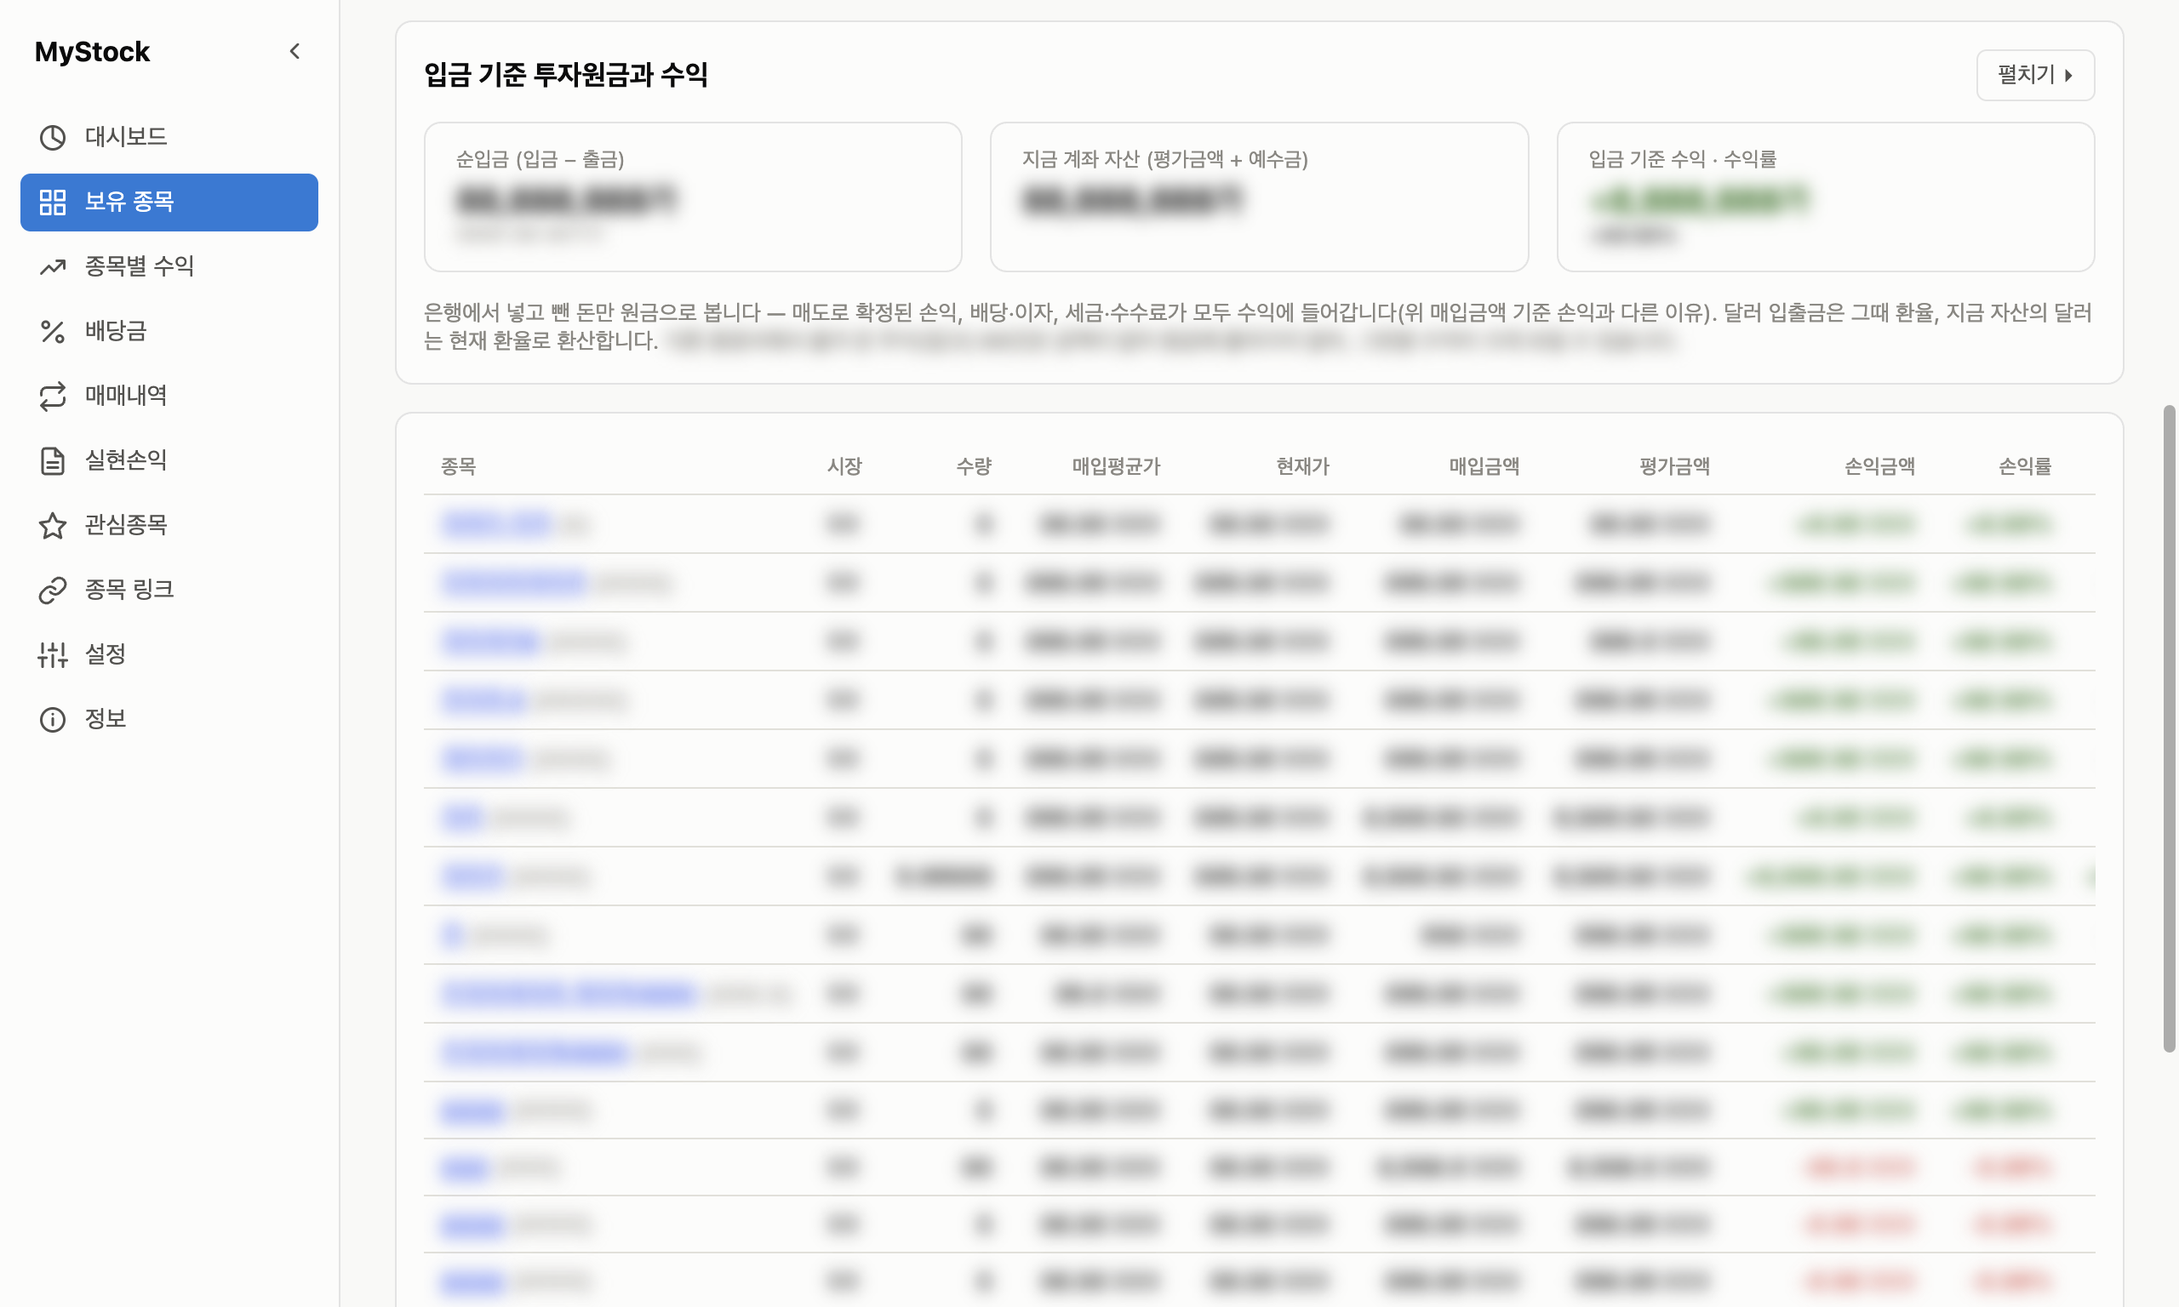
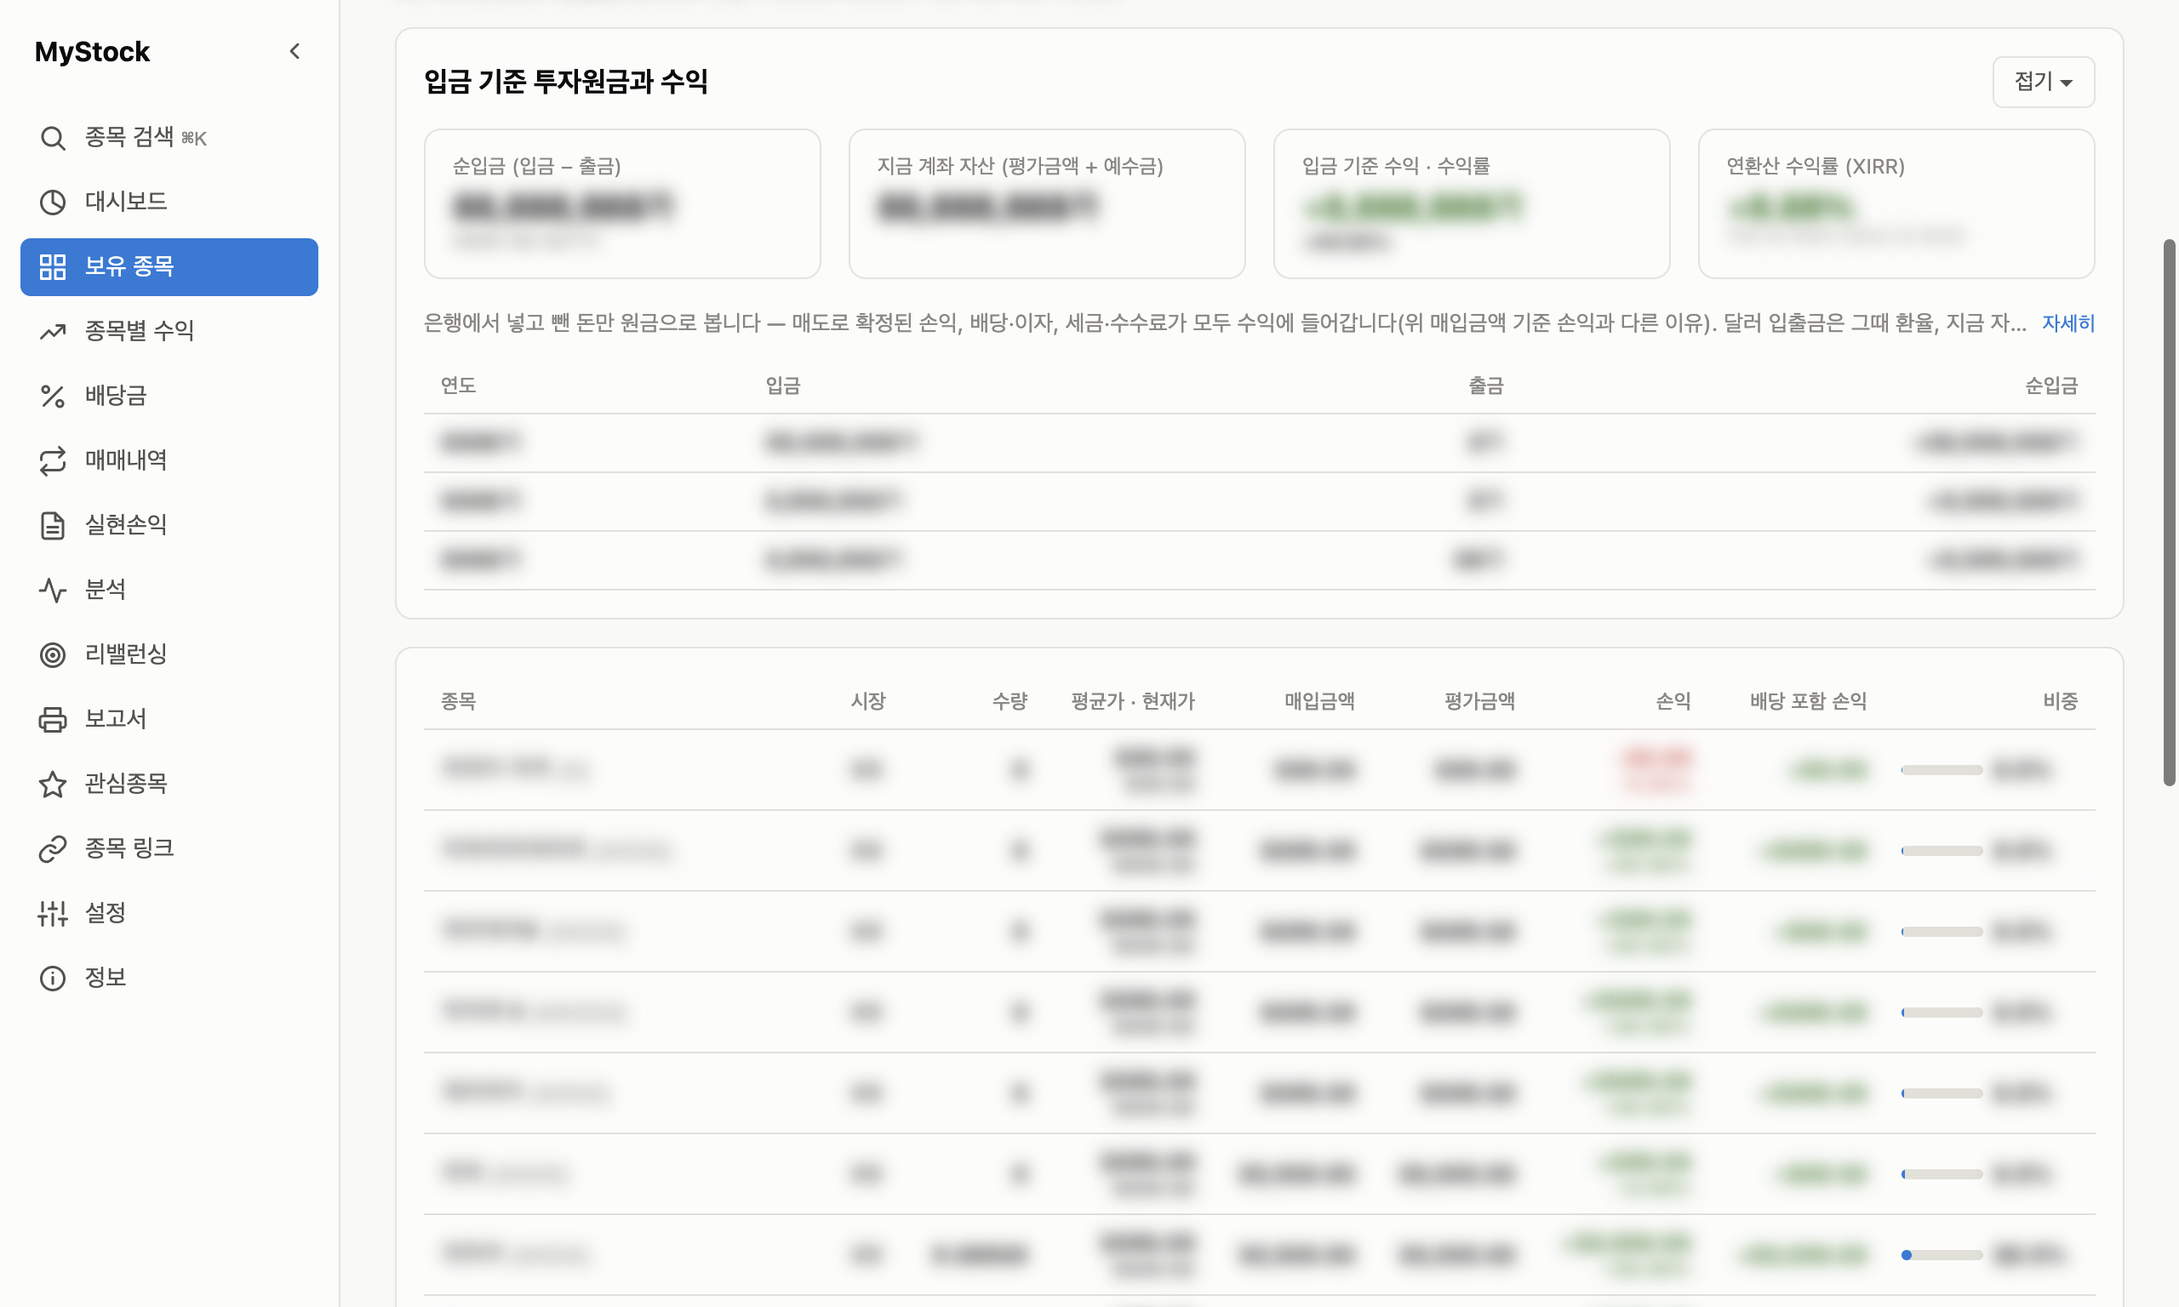
release: v1.4.0 — 버전·CHANGELOG, 매뉴얼 스크린샷 재촬영(마스킹)과 분석·리밸런싱·보고서 이미지 추가, 내부 문서 UX 반영

diff --git a/frontend/CLAUDE.md b/frontend/CLAUDE.md
@@ -105,7 +105,7 @@ React + Vite 렌더러 UI (TypeScript). 라우터 라이브러리 없이 `App.ts
   기록마다 지급월 평균 환율)가 만들고, 배당 기록의 `accountId`가 토스처럼 표시용 계좌번호
   (별칭의 `accountNumber`)로 적혀 있으면 내부 accountId로 되돌려 같은 계좌로 묶는다.
 - `src/components/MonthlyReturnChart.tsx` — 월별 diverging 막대(0% 기준선 위/아래로
-  자람, Overview.tsx의 "매월 보유종목 투자금 대비 수익률" 카드가 씀). 카테고리 색이 아니라
+  자람, Overview.tsx의 "누적 수익률 (매월 말, 투자금 대비)" 카드 — 2026-11-18 전엔 "매월 보유종목 투자금 대비 수익률" — 가 씀). 카테고리 색이 아니라
   `--good`/`--critical`(status 색)을 쓴다 — 이 값 자체가 손익(좋다/나쁘다)을
   뜻해서 color-formula.md의 "series가 곧 good/bad면 status를 입는다" 규칙에 해당.
   **기준선 위/아래 영역 높이가 비대칭이다** — 값이 전부 양수(또는 음수)인 흔한
@@ -160,7 +160,7 @@ React + Vite 렌더러 UI (TypeScript). 라우터 라이브러리 없이 `App.ts
   state). 새로고침을 연타해도 오래된 응답이 최신 상태를 덮어쓰지 않도록
   `monthlyCloseRequestId`(useRef 카운터)로 마지막 호출만 반영한다.
 - `src/components/NetWorthChart.tsx` — "순자산 추이(기록 시작 이후)" 카드(위 두
-  카드 바로 아래) 전용. `MonthlyInvestmentChart`와 그리는 방식(2-series line,
+  카드 바로 아래) 전용. **2026-11-18부터 0원이 아니라 기록 범위(최저~최고 ±여백)로 그리고 왼쪽 금액 눈금(`Y_AXIS`)·카드 폭 맞춤·날짜 라벨 건너뛰기**(아래 "화면 UX 정리" 절). `MonthlyInvestmentChart`와 그리는 방식(2-series line,
   `--series-1`/`--series-2`)은 똑같지만 입력이 다르다 — 매매내역 재구성 근사치가
   아니라 `backend/CLAUDE.md`의 "일별 자산 스냅샷" 절에서 하루 한 번 실제로 기록해둔
   값을 그대로 그린다. `loadAll()`의 나머지 로직(합계 계산)이 끝난 직후 그 합계를
@@ -185,7 +185,7 @@ React + Vite 렌더러 UI (TypeScript). 라우터 라이브러리 없이 `App.ts
   `closed`면 1분 자동 새로고침 호출을 건너뛴다(수동 새로고침은 그대로). Overview.tsx는 "섹터 비중" 도넛
   (`sectorSlices` — 백엔드 `weights`대로 평가금액을 섹터에 배분, `sector: null`·응답 없는 종목은 회색 "분류 안 됨", 첫 로딩
   수십 초라 별도 상태, `etfPending`이면 30초마다 최대 6번 다시 받아 ETF 분류를 채움)과
-  월별 수익률 카드 아래 "지수와 비교" 표(`indexComparisonRows` — 내 보유종목은 `monthlyAmountRows`로 단순 Dietz 근사:
+  월별 수익률 카드 아래 "그 달 수익률 — 지수와 비교" 표(`indexComparisonRows` — 내 보유종목은 `monthlyAmountRows`로 단순 Dietz 근사:
   (평가 변화 − 투자금 변화) ÷ 전월 평가)를 둔다.
 - `src/components/UpcomingDividends.tsx`(배당금 화면, 월별 카드 아래) / `src/components/OfficialRealizedCompare.tsx`(실현손익
   화면, `broker` kis|nh|kiwoom — 증권사 필터가 전체이거나 그 증권사일 때) — 키가 없으면 비교 카드는 안 그리고(409), 다가오는 배당은
@@ -219,7 +219,7 @@ React + Vite 렌더러 UI (TypeScript). 라우터 라이브러리 없이 `App.ts
   수동 새로고침 버튼으로 충분하다고 판단).
 - `src/pages/Settings.tsx` — 브로커별 자격증명 폼. **하드코딩이 아니라 백엔드의
   `GET /api/settings/credential-fields`를 읽어 동적 렌더링** — 새 브로커/필드는
-  백엔드 `credentialFields.ts`만 고치면 여기는 자동 반영됨. "API 키 등록" 폼의 브로커
+  백엔드 `credentialFields.ts`만 고치면 여기는 자동 반영됨. "API 키 등록" 폼은 처음 열 때 **아직 연결 안 된 증권사**를 고른다(`status` prop, 사용자가 한 번 고르면 그대로 — 2026-11-18). 이 폼의 브로커
   선택지는 `API_BROKER_IDS`가 아니라 **자격증명 필드가 실제로 있는 브로커**
   (`fieldSpecs[id]?.length > 0`)로 고른다 — KB증권처럼 CSV 전용이면서 자격증명은
   받는 브로커(아래 `kbSync.ts` 절 참고)가 생기면서 `API_BROKER_IDS`만으로는
@@ -541,7 +541,7 @@ React + Vite 렌더러 UI (TypeScript). 라우터 라이브러리 없이 `App.ts
   이미 뭘 골라놨든 상관없이 매번 연동 계좌로 강제 덮어쓴다. 사용자가 드롭다운에서
   다른 KB 계좌(IRP 등)를 직접 고르면 그 이후로는 안 건드린다.
 - **Google Sheets 내보내기/가져오기**(Dashboard.tsx/Trades.tsx/Dividends.tsx, 각 화면
-  헤더의 CSV 버튼 옆): `api.exportToGoogleSheet(dataType)`/`importFromGoogleSheet(dataType)`
+  헤더의 "가져오기·내보내기 ▾" 메뉴 안 — `components/ActionMenu.tsx`, 2026-11-18 전엔 CSV 버튼 옆에 나란히): `api.exportToGoogleSheet(dataType)`/`importFromGoogleSheet(dataType)`
   (`dataType`: `'holdings'|'trades'|'dividends'`)를 그대로 부르기만 하면 되고,
   대상 선택 UI가 없다 — CSV와 같은 범위(전체 브로커/계좌)를 그대로 시트 탭
   하나에 매핑한다. **CSV 가져오기와 의미가 다르다** — CSV는 부분 병합/업서트/
@@ -559,7 +559,7 @@ React + Vite 렌더러 UI (TypeScript). 라우터 라이브러리 없이 `App.ts
   계좌 하나를 골라 파고드는 화면인데, 이 화면만 유일하게 **모든 브로커·모든 계좌를
   합쳐서** 보여준다 — 카드 4개: 1) 전체 계좌 보유종목 비중(도넛, 종목별 평가금액
   상위 5 + 기타), 2) 선택 연도 월별 배당금(막대, `DividendsChart` 재사용), 3) 같은
-  연도 배당금 비중(도넛, 종목별), 4) 매월 보유종목 투자금 대비 수익률(diverging
+  연도 배당금 비중(도넛, 종목별), 4) 누적 수익률(매월 말, 투자금 대비 — 예전 제목 "매월 보유종목 투자금 대비 수익률", diverging
   막대, `MonthlyReturnChart`). 데이터는 마운트 시 한 번만 불러온다(자동 새로고침 없음,
   수동 "새로고침" 버튼만) — 브로커마다 계좌 목록 조회 + 계좌마다 보유종목 조회를
   전부 병렬로 하는 호출량이 다른 화면보다 훨씬 많아서(Dashboard.tsx의 "전체 계좌"
@@ -599,7 +599,7 @@ React + Vite 렌더러 UI (TypeScript). 라우터 라이브러리 없이 `App.ts
   뺀 뒤 배너로 안내).
 - `src/pages/Dashboard.tsx` — 보유 종목. 브로커 선택 → 계좌/환율 조회 → 포트폴리오
   조회, 3단계 `useEffect` 체인(환율은 모든 증권사 — 한투 미국 주식·CSV 달러 종목도 있어서, 예전엔 토스만). 네 스탯 타일(`AmountTile`/
-  `RateTile`)은 달러 보유분이 있으면(`hasUsdHoldings`) 원화/달러/합계(환산) 3줄,
+  `RateTile`)은 달러 보유분이 있으면(`hasUsdHoldings`) 원화/달러/합계(환산) 3줄(**0인 통화 줄은 뺀다** — 2026-11-18; 환율·토스 예수금 안내는 상자 두 개 대신 타일 아래 한 줄),
   없으면 한 줄만 보여준다 — **굵은 글씨는 항상 합계(환산) 한 줄에만** 쓴다.
   `hasUsd` 판단은 개별 타일 값이 아니라 포트폴리오 전체의 달러 투자금 여부로 넘겨서,
   손익금액이 우연히 0이어도 3줄 구조가 안 깨지게 한다. `RateTile`의 합계 손익률은
@@ -651,7 +651,7 @@ React + Vite 렌더러 UI (TypeScript). 라우터 라이브러리 없이 `App.ts
   하나라도 있으면 "계좌" 열을 보여준다(개별 계좌 모드에선 이 필드가 없어서 열 자체가
   안 생김 — Trades.tsx의 `isAllMode` 전용 컬럼과 같은 패턴이지만 여긴 별도 상태
   플래그 없이 데이터 유무로 판단).
-  **"배당 포함 손익금액" 열**(손익률 뒤): 손익금액 + **이 계좌의 이 종목**에서 받은
+  **"배당 포함 손익" 열**(손익 뒤 — 2026-11-18부터 표는 "평균가 · 현재가"·"손익(아래 손익률)"을 한 칸씩 합쳐 열 수를 줄였다): 손익금액 + **이 계좌의 이 종목**에서 받은
   배당 합계(`rows` useMemo의 `dividendFor`) — "종목별 수익" 화면과 달리 다른 계좌의
   같은 종목 배당은 섞지 않는다(사용자 명시 요청, 2026-11-04). 배당 기록의 계좌는
   `accountLabels.ts`의 `resolveDividendAccountId`로 내부 accountId로 되돌려 비교한다
@@ -676,7 +676,7 @@ React + Vite 렌더러 UI (TypeScript). 라우터 라이브러리 없이 `App.ts
   버튼을 숨기고, 직접 입력 폼의 증권사 선택지에서도 뺀다(백엔드도 409로 막는다). **`amount`는 세후, `tax`(선택)는
   원천징수 세금** — 표에 "세금" 열, 추가 폼·인라인 수정에 세금 칸, CSV에 선택 컬럼 `tax`가 있다. `currency`(KRW/USD) 기준 `amount`를 원본 통화
   그대로 저장(backend/CLAUDE.md 참고). `accountId`(선택, `string | null`)로 한 증권사
-  안의 여러 계좌를 구분할 수 있다 — "배당 기록 추가" 폼의 "계좌 (선택)" 입력칸(브로커
+  안의 여러 계좌를 구분할 수 있다 — "배당 기록 추가" 폼(2026-11-18부터 기본 접힘 — "+ 배당 기록 직접 추가")의 "계좌 (선택)" 입력칸(브로커
   종류와 무관하게 항상 노출 — CSV 전용 브로커뿐 아니라 토스/KIS도 계좌가 여러 개일 수
   있으므로), 인라인 수정 행, 목록의 "계좌" 컬럼(라벨이 있으면 라벨, 없으면 accountId
   원문, 둘 다 없으면 `-` — 라벨 조회는 `accountLabels.ts` 참고), CSV
@@ -776,7 +776,7 @@ React + Vite 렌더러 UI (TypeScript). 라우터 라이브러리 없이 `App.ts
   대상으로 하고, **가져오기**도 대상 선택 없이 CSV 행 자체의 `broker`/`accountId`를
   그대로 쓴다. `TRADES_CSV_HEADER`에 선택 컬럼 `name`이 있다 — 비우면 백엔드가
   자동조회하고, 채우면 그 값을 그대로 쓴다(API 연동이 전혀 없을 때의 유일한 채움
-  경로). **"매매내역 추가"**(수동 입력) 폼은 `CSV_ONLY_BROKER_IDS`만 증권사
+  경로). **"매매내역 추가"**(수동 입력, 2026-11-18부터 기본 접힘 — "+ 매매내역 직접 추가") 폼은 `CSV_ONLY_BROKER_IDS`만 증권사
   선택지로 준다(Dividends.tsx의 배당 기록 추가 폼과 다른 점 — 토스/KIS는 실시간
   API로 실제 체결 내역이 write-through 동기화되므로, 그 위에 수동 입력을 섞으면
   어느 쪽이 진짜 체결 내역인지 알 수 없어진다) — 별도 백엔드 라우트 없이 기존 CSV
@@ -924,6 +924,8 @@ React + Vite 렌더러 UI (TypeScript). 라우터 라이브러리 없이 `App.ts
   `setWindowOpenHandler`가 시스템 브라우저로 넘기고, 링크 클릭은 행 클릭으로 번지지
   않게 막는다(관심종목 표는 행을 누르면 상세가 열려서). 상장폐지 종목(예: 028080 휴맥스홀딩스)은 국내 규칙상 링크가
   만들어지지만 토스에 페이지가 없으니 "링크 없음"으로 저장하면 된다.
+  **표 모양(2026-11-18)**: 링크가 있는 행은 주소를 짧은 글자(`https://www.` 뗌)로 보이고 "수정"(`editing` Set)을 눌러야 입력칸이 된다 —
+  수십 줄이 전부 입력칸이라 빽빽하고 오른쪽 버튼이 잘렸다. "저장"은 고칠 때만 보인다.
 - `src/pages/Watchlist.tsx` — 관심종목(보유하지 않은 종목의 현재가만 추적).
   다른 화면들의 "종목코드 입력 → 디바운스 자동조회" 패턴과 달리, 입력칸은
   그냥 값만 들고 있다가 "추가" 버튼을 눌러야 `api.addWatchlist(symbol)`을
@@ -945,7 +947,8 @@ React + Vite 렌더러 UI (TypeScript). 라우터 라이브러리 없이 `App.ts
   36개월을 넘으면 한 달 폭을 줄이고 점·매달 라벨 대신 선 + 1월에만 연도 라벨로
   그린다(수백 개월이 수만 px가 되지 않게).
   토스 미연동이거나 그 종목을 못 찾으면 빈 배열이 와서 차트 대신 안내 문구를
-  보여준다.
+  보여준다. 목록의 **"목표가" 열**(2026-11-18)은 `usePlanner()`의 `watchTargets`를 읽기만 한다(고치는 곳은 상세의
+  `WatchTargetEditor`) — 지금 가격이 이상·이하 조건에 닿으면 굵게 "도달"(상태 색 아님).
 
 ## 개발
 

diff --git a/CLAUDE.md b/CLAUDE.md
@@ -121,6 +121,8 @@ npm run dev              # frontend(Vite) + electron을 동시에 실행
   종목 정보·ETF 구성, 토스·NH·키움 투자원금)과 **KIS 해외주식·NH(실데이터 미검증, 모의투자 합계 제외)·키움(실키 미확인)**은 `backend/CLAUDE.md`의 해당 절.
 - **사용자 계획·목표 값(월 배당 목표·ISA/연금 납입과 한도·목표 비중·알림·목표가·은퇴 시뮬레이션·적립식 계획)은 `planner.json` 하나**, OS 알림과 보고서 PDF는 백엔드가 메인 프로세스에서 —
   `backend/CLAUDE.md` "계획·목표 값, 알림, 보고서 PDF". 세법 한도는 기본값이 2025년 확정치라 개정되면 화면에서 바꾼다.
+- **화면 공용 부품**(2026-11-18 UX 정리): 설명 문단은 `Hint`(한 줄 + 자세히), 버튼 묶음은 `ActionMenu`, 긴 화면은 `SectionNav`, 차트 폭은 `useContainerWidth`,
+  표는 금액 칸 안 `cell-sub`로 열을 줄인다 — 새 화면·카드도 이걸 쓴다. `frontend/CLAUDE.md` "화면 UX 정리" 절.
 - **보안 하드닝**(CSP·fuses·원격 디버깅 차단)은 `electron/CLAUDE.md` "보안 하드닝" 절 — 렌더러에 외부 자원을 들이면 **패키징본에서만** 깨진다.
 - 브로커별 상세(인증·Rate Limit·제약)는 `README.md`와 `backend/CLAUDE.md`. 연동 점검은 `npm test`(가짜 서버) + `npm run check:<broker>`(실서버).
 

diff --git a/README.md b/README.md
@@ -25,7 +25,7 @@
   - 릴리스마다 `SHA256SUMS.txt`가 함께 올라갑니다 — 받은 파일이 진짜인지 확인하는 방법은
     [매뉴얼의 "받은 파일 확인하기"](doc/user-manual.md#받은-파일-확인하기-선택)를 보세요.
 - **사용자 매뉴얼**: [`doc/user-manual.md`](doc/user-manual.md) — 화면별 사용법, API 키 발급 안내(증권사·Google·한국수출입은행), 백업/복원, 문제 해결.
-- **변경 내역**: [`CHANGELOG.md`](CHANGELOG.md) — 버전별 새 기능과 수정(최신 v1.3.3). 새 버전으로 바꿔 설치해도 데이터와 API 키는 그대로 남습니다
+- **변경 내역**: [`CHANGELOG.md`](CHANGELOG.md) — 버전별 새 기능과 수정(최신 v1.4.0). 새 버전으로 바꿔 설치해도 데이터와 API 키는 그대로 남습니다
   ([매뉴얼의 "새 버전으로 업데이트"](doc/user-manual.md#새-버전으로-업데이트)).
 - ⚠ 설치 파일은 **OS별 코드 서명 인증서로 서명되어 있지 않아** 처음 실행할 때 macOS·Windows가 막습니다.
   OS별 허용 방법(macOS 15부터는 우클릭 → 열기가 통하지 않음)은

diff --git a/CHANGELOG.md b/CHANGELOG.md
@@ -3,7 +3,7 @@
 MyStock의 버전별 변경 사항입니다. 설치 파일은 [GitHub Releases](https://github.com/ultracat/MyStockInfo/releases)에서 받습니다.
 기능별 사용법은 [사용자 매뉴얼](doc/user-manual.md)을 참고하세요.
 
-## 다음 버전 (미배포)
+## v1.4.0 — 2026-11-18
 
 계획·분석 기능을 크게 늘린 버전입니다. 새 화면 셋(**분석**·**리밸런싱**·**보고서**)과 어디서나 쓰는 **빠른 종목 검색(⌘K)**, 컴퓨터 **알림**이 생겼고,
 배당·실현손익·매매내역 화면에 계획과 절세를 돕는 카드가 더해졌습니다. 데이터와 API 키는 그대로 이어서 씁니다.
